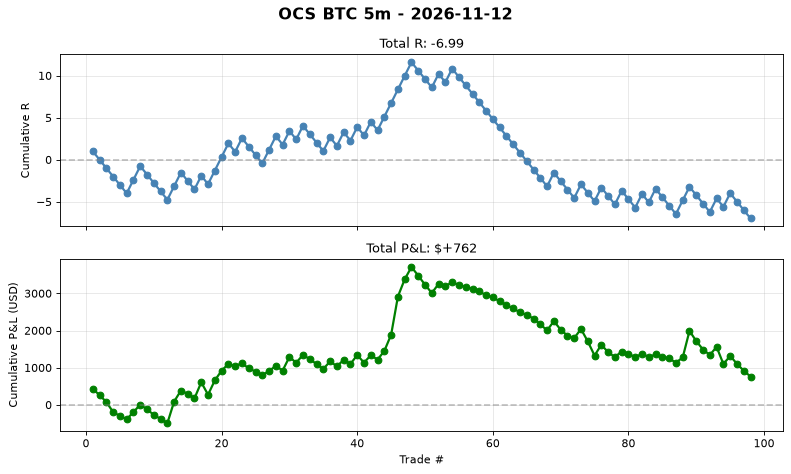
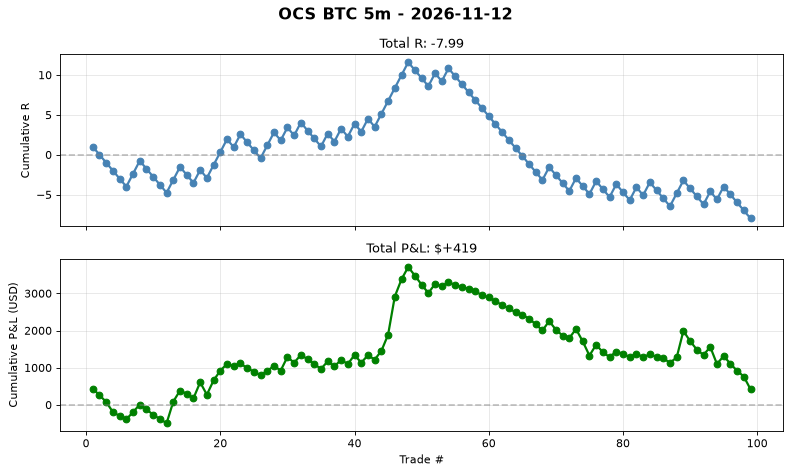
auto(ocs-btc): signal log 2026-11-11T22:54 trades=99

diff --git a/automation/reports/ocs_btc_5m/daily/2026-11-12.md b/automation/reports/ocs_btc_5m/daily/2026-11-12.md
@@ -2,4 +2,4 @@
 
 **No trades today.**
 
-Cumulative stats: 98 trades | WR 35.7% | avg R -0.071
+Cumulative stats: 99 trades | WR 35.4% | avg R -0.081
